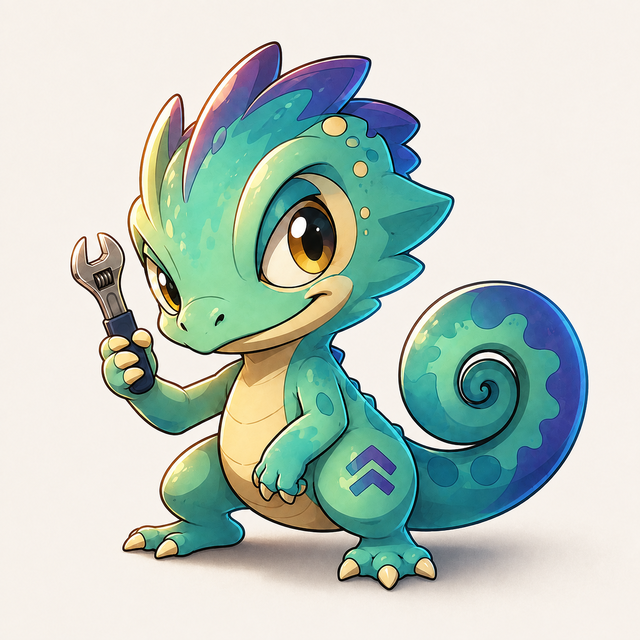
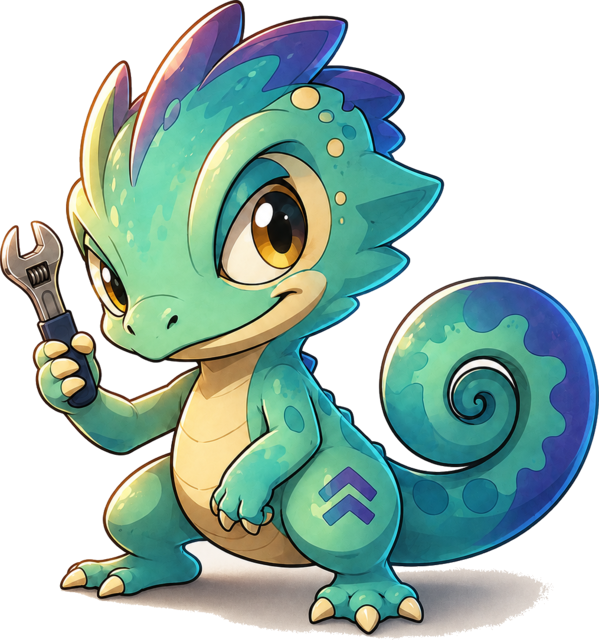
Center the mascot above the title on a transparent background

diff --git a/README.md b/README.md
@@ -1,6 +1,6 @@
-<img src="docs/images/mascot.png" alt="EvoCC mascot, a chameleon holding a wrench" align="right" width="180">
-
-# EvoCC
+<p align="center"><img src="docs/images/mascot.png" alt="EvoCC mascot, a chameleon holding a wrench" width="200"></p>
+<h1 align="center">EvoCC</h1>
+<p align="center">a C compiler whose optimizer keeps every equivalent form</p>
 
 EvoCC is a C compiler written from scratch in Rust. It has its own preprocessor, parser, IRs, optimizer, register allocator and emitter; the platform assembler and linker are the only outside tools. The optimizer is an [e-graph](https://egraphs-good.github.io/): a rewrite adds an equivalent form instead of replacing code, a cost model picks one form at the end, and every union carries a certificate that a separate program checks. The target is AArch64 (Linux and macOS), and the program it is being brought up on is the Linux 6.18.44 `arm64 virtconfig` kernel.
 
